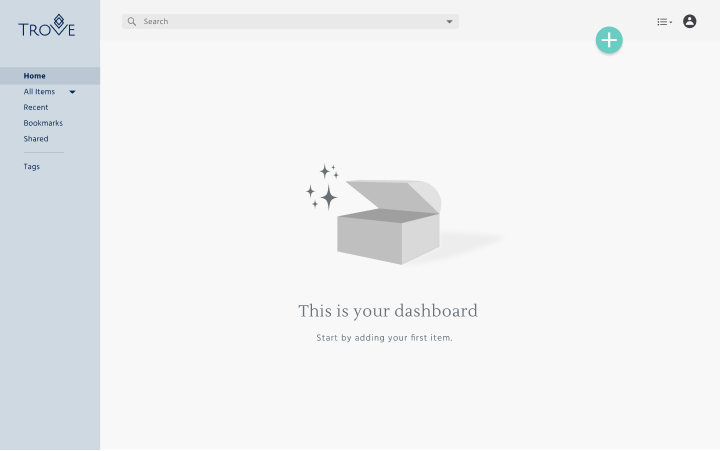
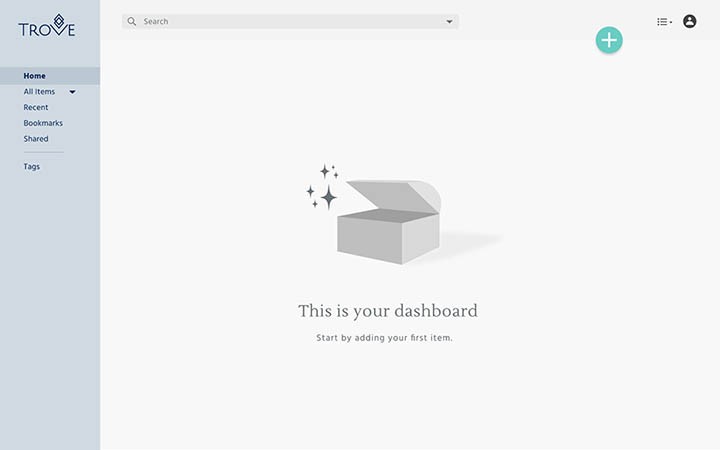
image optimization prototype shots

diff --git a/project.html b/project.html
@@ -738,46 +738,46 @@
         <div data-aos-easing="ease" data-aos-duration="1500" data-aos-delay="0" data-aos="fade-in" class="gray-background">
           <figure class="prototype-flex-container">
             <img data-aos-easing="ease" data-aos-duration="1500" data-aos-delay="0" data-aos="fade-in" class="project-image" srcset="assets/img-project/prototype-screen1-720w.jpg 720w,
-              assets/img-project/prototype-screen1-1440w.jpg 1440w" sizes: "(max-width: 800px) 720px, 1440px" src="assets/img-project/prototype-screen1-1440w.jpg" alt="Trove Product: Sign up screen">
+              assets/img-project/prototype-screen1-900w.jpg 900w, assets/img-project/prototype-screen1-1440w.jpg 1440w" sizes: "(max-width: 800px) 720px, (max-width: 1200px) 900px, 1440px" src="assets/img-project/prototype-screen1-1440w.jpg" alt="Trove Product: Sign up screen">
             </img>
             <img data-aos-easing="ease" data-aos-duration="1500" data-aos-delay="0" data-aos="fade-in" class="project-image" srcset="assets/img-project/prototype-screen2-720w.jpg 720w,
-              assets/img-project/prototype-screen2-1440w.jpg 1440w" sizes: "(max-width: 800px) 720px, 1440px" src="assets/img-project/prototype-screen2-1440w.jpg" alt="Trove Product: Password Reset screen">
+              assets/img-project/prototype-screen2-900w.jpg 900w, assets/img-project/prototype-screen2-1440w.jpg 1440w" sizes: "(max-width: 800px) 720px, (max-width: 1200px) 900px, 1440px" src="assets/img-project/prototype-screen2-1440w.jpg" alt="Trove Product: Password Reset screen">
             </img>
             <img data-aos-easing="ease" data-aos-duration="1500" data-aos-delay="0" data-aos="fade-in" class="project-image" srcset="assets/img-project/prototype-screen3-720w.jpg 720w,
-              assets/img-project/prototype-screen3-1440w.jpg 1440w" sizes: "(max-width: 800px) 720px, 1440px" src="assets/img-project/prototype-screen3-1440w.jpg" alt="Trove Product: Blank state dashboard">
+              assets/img-project/prototype-screen3-900w.jpg 900w, assets/img-project/prototype-screen3-1440w.jpg 1440w" sizes: "(max-width: 800px) 720px, (max-width: 1200px) 900px, 1440px" src="assets/img-project/prototype-screen3-1440w.jpg" alt="Trove Product: Blank state dashboard">
             </img>
             <img data-aos-easing="ease" data-aos-duration="1500" data-aos-delay="0" data-aos="fade-in" class="project-image" srcset="assets/img-project/prototype-screen4-720w.jpg 720w,
-              assets/img-project/prototype-screen4-1440w.jpg 1440w" sizes: "(max-width: 800px) 720px, 1440px" src="assets/img-project/prototype-screen4-1440w.jpg" alt="Trove Product: Main dashboard">
+              assets/img-project/prototype-screen4-900w.jpg 900w, assets/img-project/prototype-screen4-1440w.jpg 1440w" sizes: "(max-width: 800px) 720px, (max-width: 1200px) 900px, 1440px" src="assets/img-project/prototype-screen4-1440w.jpg" alt="Trove Product: Main dashboard">
             </img>
             <img data-aos-easing="ease" data-aos-duration="1500" data-aos-delay="0" data-aos="fade-in" class="project-image" srcset="assets/img-project/prototype-screen5-720w.jpg 720w,
-              assets/img-project/prototype-screen5-1440w.jpg 1440w" sizes: "(max-width: 800px) 720px, 1440px" src="assets/img-project/prototype-screen5-1440w.jpg" alt="Trove Product: Upload files">
+              assets/img-project/prototype-screen5-900w.jpg 900w, assets/img-project/prototype-screen5-1440w.jpg 1440w" sizes: "(max-width: 800px) 720px, (max-width: 1200px) 900px, 1440px" src="assets/img-project/prototype-screen5-1440w.jpg" alt="Trove Product: Upload files">
             </img>
             <img data-aos-easing="ease" data-aos-duration="1500" data-aos-delay="0" data-aos="fade-in" class="project-image" srcset="assets/img-project/prototype-screen6-720w.jpg 720w,
-              assets/img-project/prototype-screen6-1440w.jpg 1440w" sizes: "(max-width: 800px) 720px, 1440px" src="assets/img-project/prototype-screen6-1440w.jpg" alt="Trove Product: Add files to a folder">
+              assets/img-project/prototype-screen6-900w.jpg 900w, assets/img-project/prototype-screen6-1440w.jpg 1440w" sizes: "(max-width: 800px) 720px, (max-width: 1200px) 900px, 1440px" src="assets/img-project/prototype-screen6-1440w.jpg" alt="Trove Product: Add files to a folder">
             </img>
             <img data-aos-easing="ease" data-aos-duration="1500" data-aos-delay="0" data-aos="fade-in" class="project-image" srcset="assets/img-project/prototype-screen7-720w.jpg 720w,
-              assets/img-project/prototype-screen7-1440w.jpg 1440w" sizes: "(max-width: 800px) 720px, 1440px" src="assets/img-project/prototype-screen7-1440w.jpg" alt="Trove Product: Move files modal window">
+              assets/img-project/prototype-screen7-900w.jpg 900w, assets/img-project/prototype-screen7-1440w.jpg 1440w" sizes: "(max-width: 800px) 720px, (max-width: 1200px) 900px, 1440px" src="assets/img-project/prototype-screen7-1440w.jpg" alt="Trove Product: Move files modal window">
             </img>
             <img data-aos-easing="ease" data-aos-duration="1500" data-aos-delay="0" data-aos="fade-in" class="project-image" srcset="assets/img-project/prototype-screen8-720w.jpg 720w,
-              assets/img-project/prototype-screen8-1440w.jpg 1440w" sizes: "(max-width: 800px) 720px, 1440px" src="assets/img-project/prototype-screen8-1440w.jpg" alt="Trove Product: View search results">
+              assets/img-project/prototype-screen8-900w.jpg 900w, assets/img-project/prototype-screen8-1440w.jpg 1440w" sizes: "(max-width: 800px) 720px, (max-width: 1200px) 900px, 1440px" src="assets/img-project/prototype-screen8-1440w.jpg" alt="Trove Product: View search results">
             </img>
             <img data-aos-easing="ease" data-aos-duration="1500" data-aos-delay="0" data-aos="fade-in" class="project-image" srcset="assets/img-project/prototype-screen9-720w.jpg 720w,
-              assets/img-project/prototype-screen9-1440w.jpg 1440w" sizes: "(max-width: 800px) 720px, 1440px" src="assets/img-project/prototype-screen9-1440w.jpg" alt="Trove Product: Tag item dropdown menu">
+              assets/img-project/prototype-screen9-900w.jpg 900w, assets/img-project/prototype-screen9-1440w.jpg 1440w" sizes: "(max-width: 800px) 720px, (max-width: 1200px) 900px, 1440px" src="assets/img-project/prototype-screen9-1440w.jpg" alt="Trove Product: Tag item dropdown menu">
             </img>
             <img data-aos-easing="ease" data-aos-duration="1500" data-aos-delay="0" data-aos="fade-in" class="project-image" srcset="assets/img-project/prototype-screen10-720w.jpg 720w,
-              assets/img-project/prototype-screen10-1440w.jpg 1440w" sizes: "(max-width: 800px) 720px, 1440px" src="assets/img-project/prototype-screen10-1440w.jpg" alt="Trove Product: Add a new note">
+              assets/img-project/prototype-screen10-900w.jpg 900w, assets/img-project/prototype-screen10-1440w.jpg 1440w" sizes: "(max-width: 800px) 720px, (max-width: 1200px) 900px, 1440px" src="assets/img-project/prototype-screen10-1440w.jpg" alt="Trove Product: Add a new note">
             </img>
             <img data-aos-easing="ease" data-aos-duration="1500" data-aos-delay="0" data-aos="fade-in" class="project-image" srcset="assets/img-project/prototype-screen11-720w.jpg 720w,
-              assets/img-project/prototype-screen11-1440w.jpg 1440w" sizes: "(max-width: 800px) 720px, 1440px" src="assets/img-project/prototype-screen11-1440w.jpg" alt="Trove Product: Image opened from dashboard">
+              assets/img-project/prototype-screen11-900w.jpg 900w, assets/img-project/prototype-screen11-1440w.jpg 1440w" sizes: "(max-width: 800px) 720px, (max-width: 1200px) 900px, 1440px" src="assets/img-project/prototype-screen11-1440w.jpg" alt="Trove Product: Image opened from dashboard">
             </img>
             <img data-aos-easing="ease" data-aos-duration="1500" data-aos-delay="0" data-aos="fade-in" class="project-image" srcset="assets/img-project/prototype-screen12-720w.jpg 720w,
-              assets/img-project/prototype-screen12-1440w.jpg 1440w" sizes: "(max-width: 800px) 720px, 1440px" src="assets/img-project/prototype-screen12-1440w.jpg" alt="Trove Product: New folder added">
+              assets/img-project/prototype-screen12-900w.jpg 900w, assets/img-project/prototype-screen12-1440w.jpg 1440w" sizes: "(max-width: 800px) 720px, (max-width: 1200px) 900px, 1440px" src="assets/img-project/prototype-screen12-1440w.jpg" alt="Trove Product: New folder added">
             </img>
             <img data-aos-easing="ease" data-aos-duration="1500" data-aos-delay="0" data-aos="fade-in" class="project-image" srcset="assets/img-project/prototype-screen13-720w.jpg 720w,
-              assets/img-project/prototype-screen13-1440w.jpg 1440w" sizes: "(max-width: 800px) 720px, 1440px" src="assets/img-project/prototype-screen13-1440w.jpg" alt="Trove Product: New bookmark modal window">
+              assets/img-project/prototype-screen13-900w.jpg 900w, assets/img-project/prototype-screen13-1440w.jpg 1440w" sizes: "(max-width: 800px) 720px, (max-width: 1200px) 900px, 1440px" src="assets/img-project/prototype-screen13-1440w.jpg" alt="Trove Product: New bookmark modal window">
             </img>
             <img data-aos-easing="ease" data-aos-duration="1500" data-aos-delay="0" data-aos="fade-in" class="project-image" srcset="assets/img-project/prototype-screen14-720w.jpg 720w,
-              assets/img-project/prototype-screen14-1440w.jpg 1440w" sizes: "(max-width: 800px) 720px, 1440px" src="assets/img-project/prototype-screen14-1440w.jpg" alt="Trove Product: Items tagged as personal">
+              assets/img-project/prototype-screen14-900w.jpg 900w, assets/img-project/prototype-screen14-1440w.jpg 1440w" sizes: "(max-width: 800px) 720px, (max-width: 1200px) 900px, 1440px" src="assets/img-project/prototype-screen14-1440w.jpg" alt="Trove Product: Items tagged as personal">
             </img>
           </figure>
         </div>
